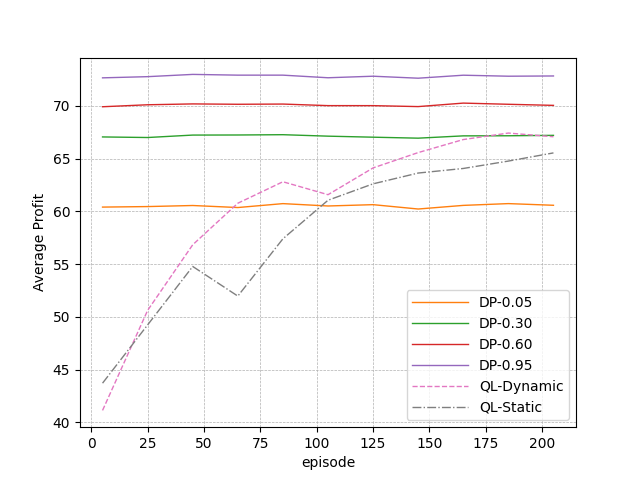
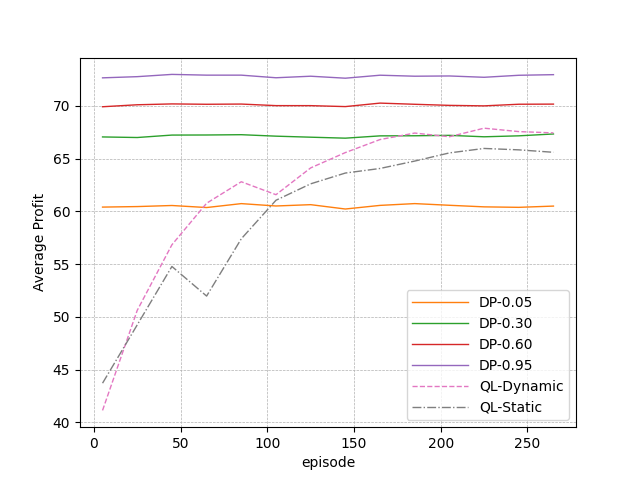
linear

diff --git a/Single-Provider-Federation/linear/QL.py b/Single-Provider-Federation/linear/QL.py
@@ -114,7 +114,7 @@ def qLearning(env, num_episodes, dynamic, discount_factor = 1.0, alpha = 1.0, ep
         if(dynamic == 1):
             epsilon = epsilon * 0.99
             max_alpha = 0.99
-            min_alpha = 0.4
+            min_alpha = 0.50
             alpha = max_alpha - ((max_alpha - min_alpha) / num_episodes) * ith_episode
             gamma = 0.99
         else:
